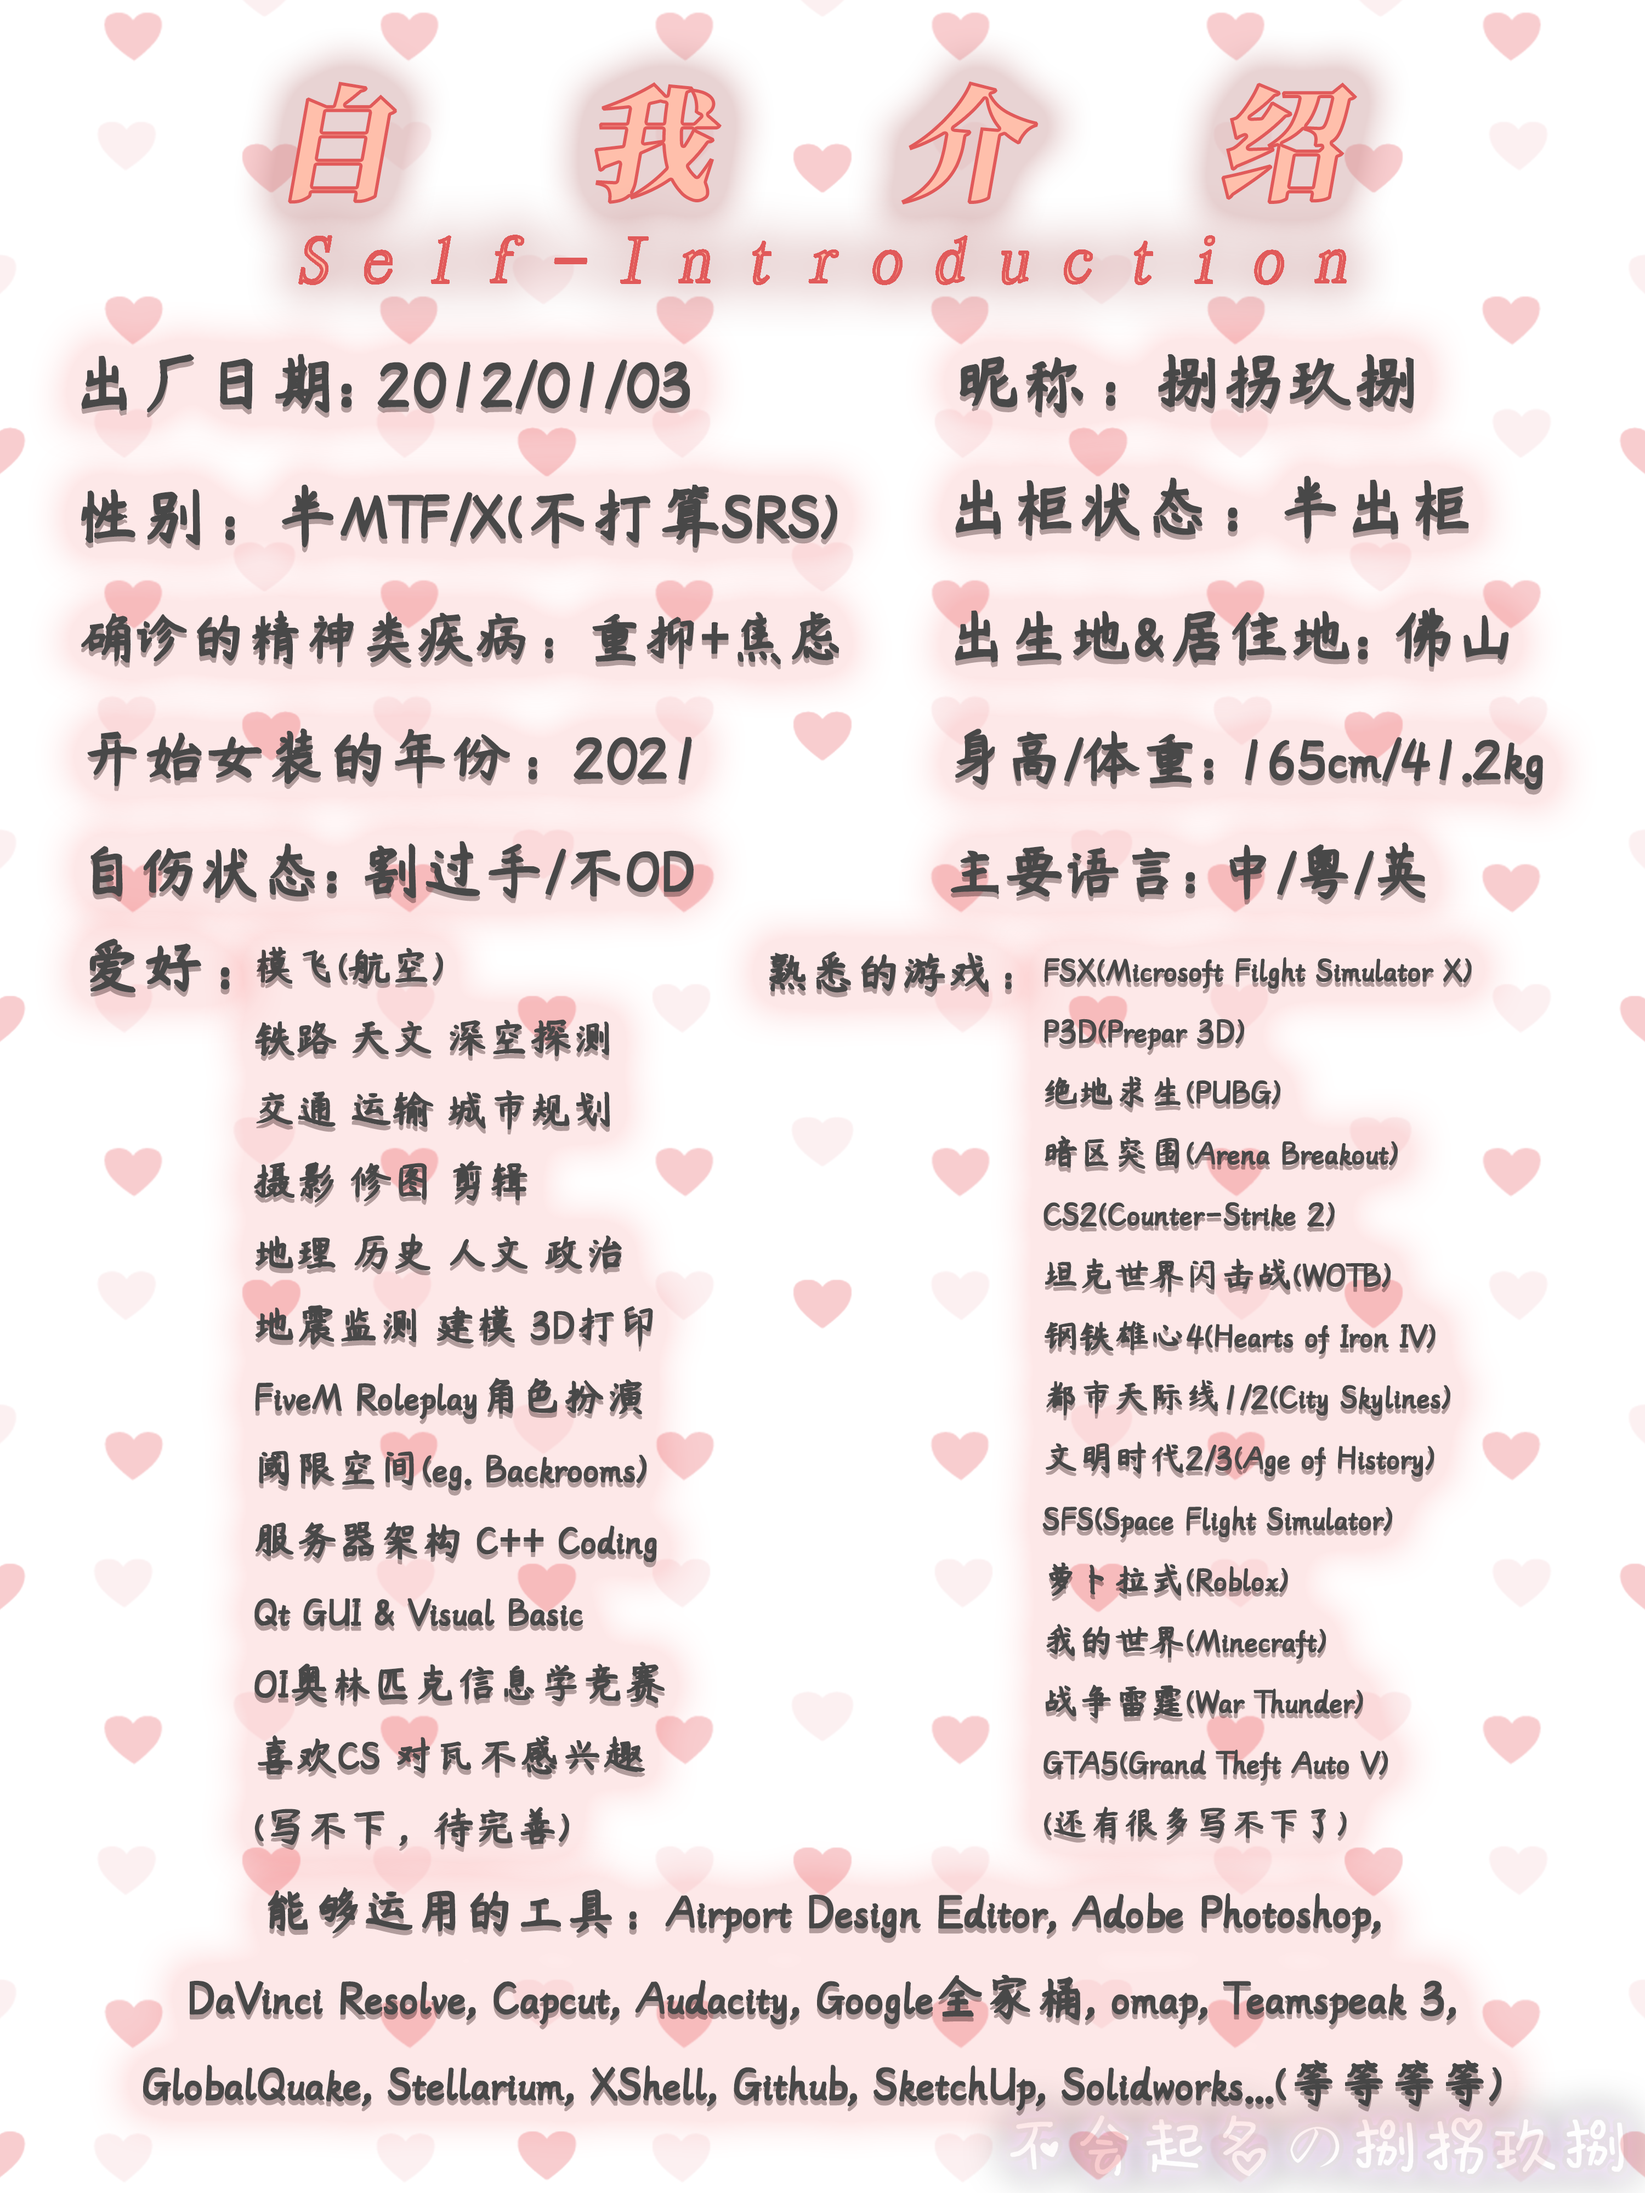
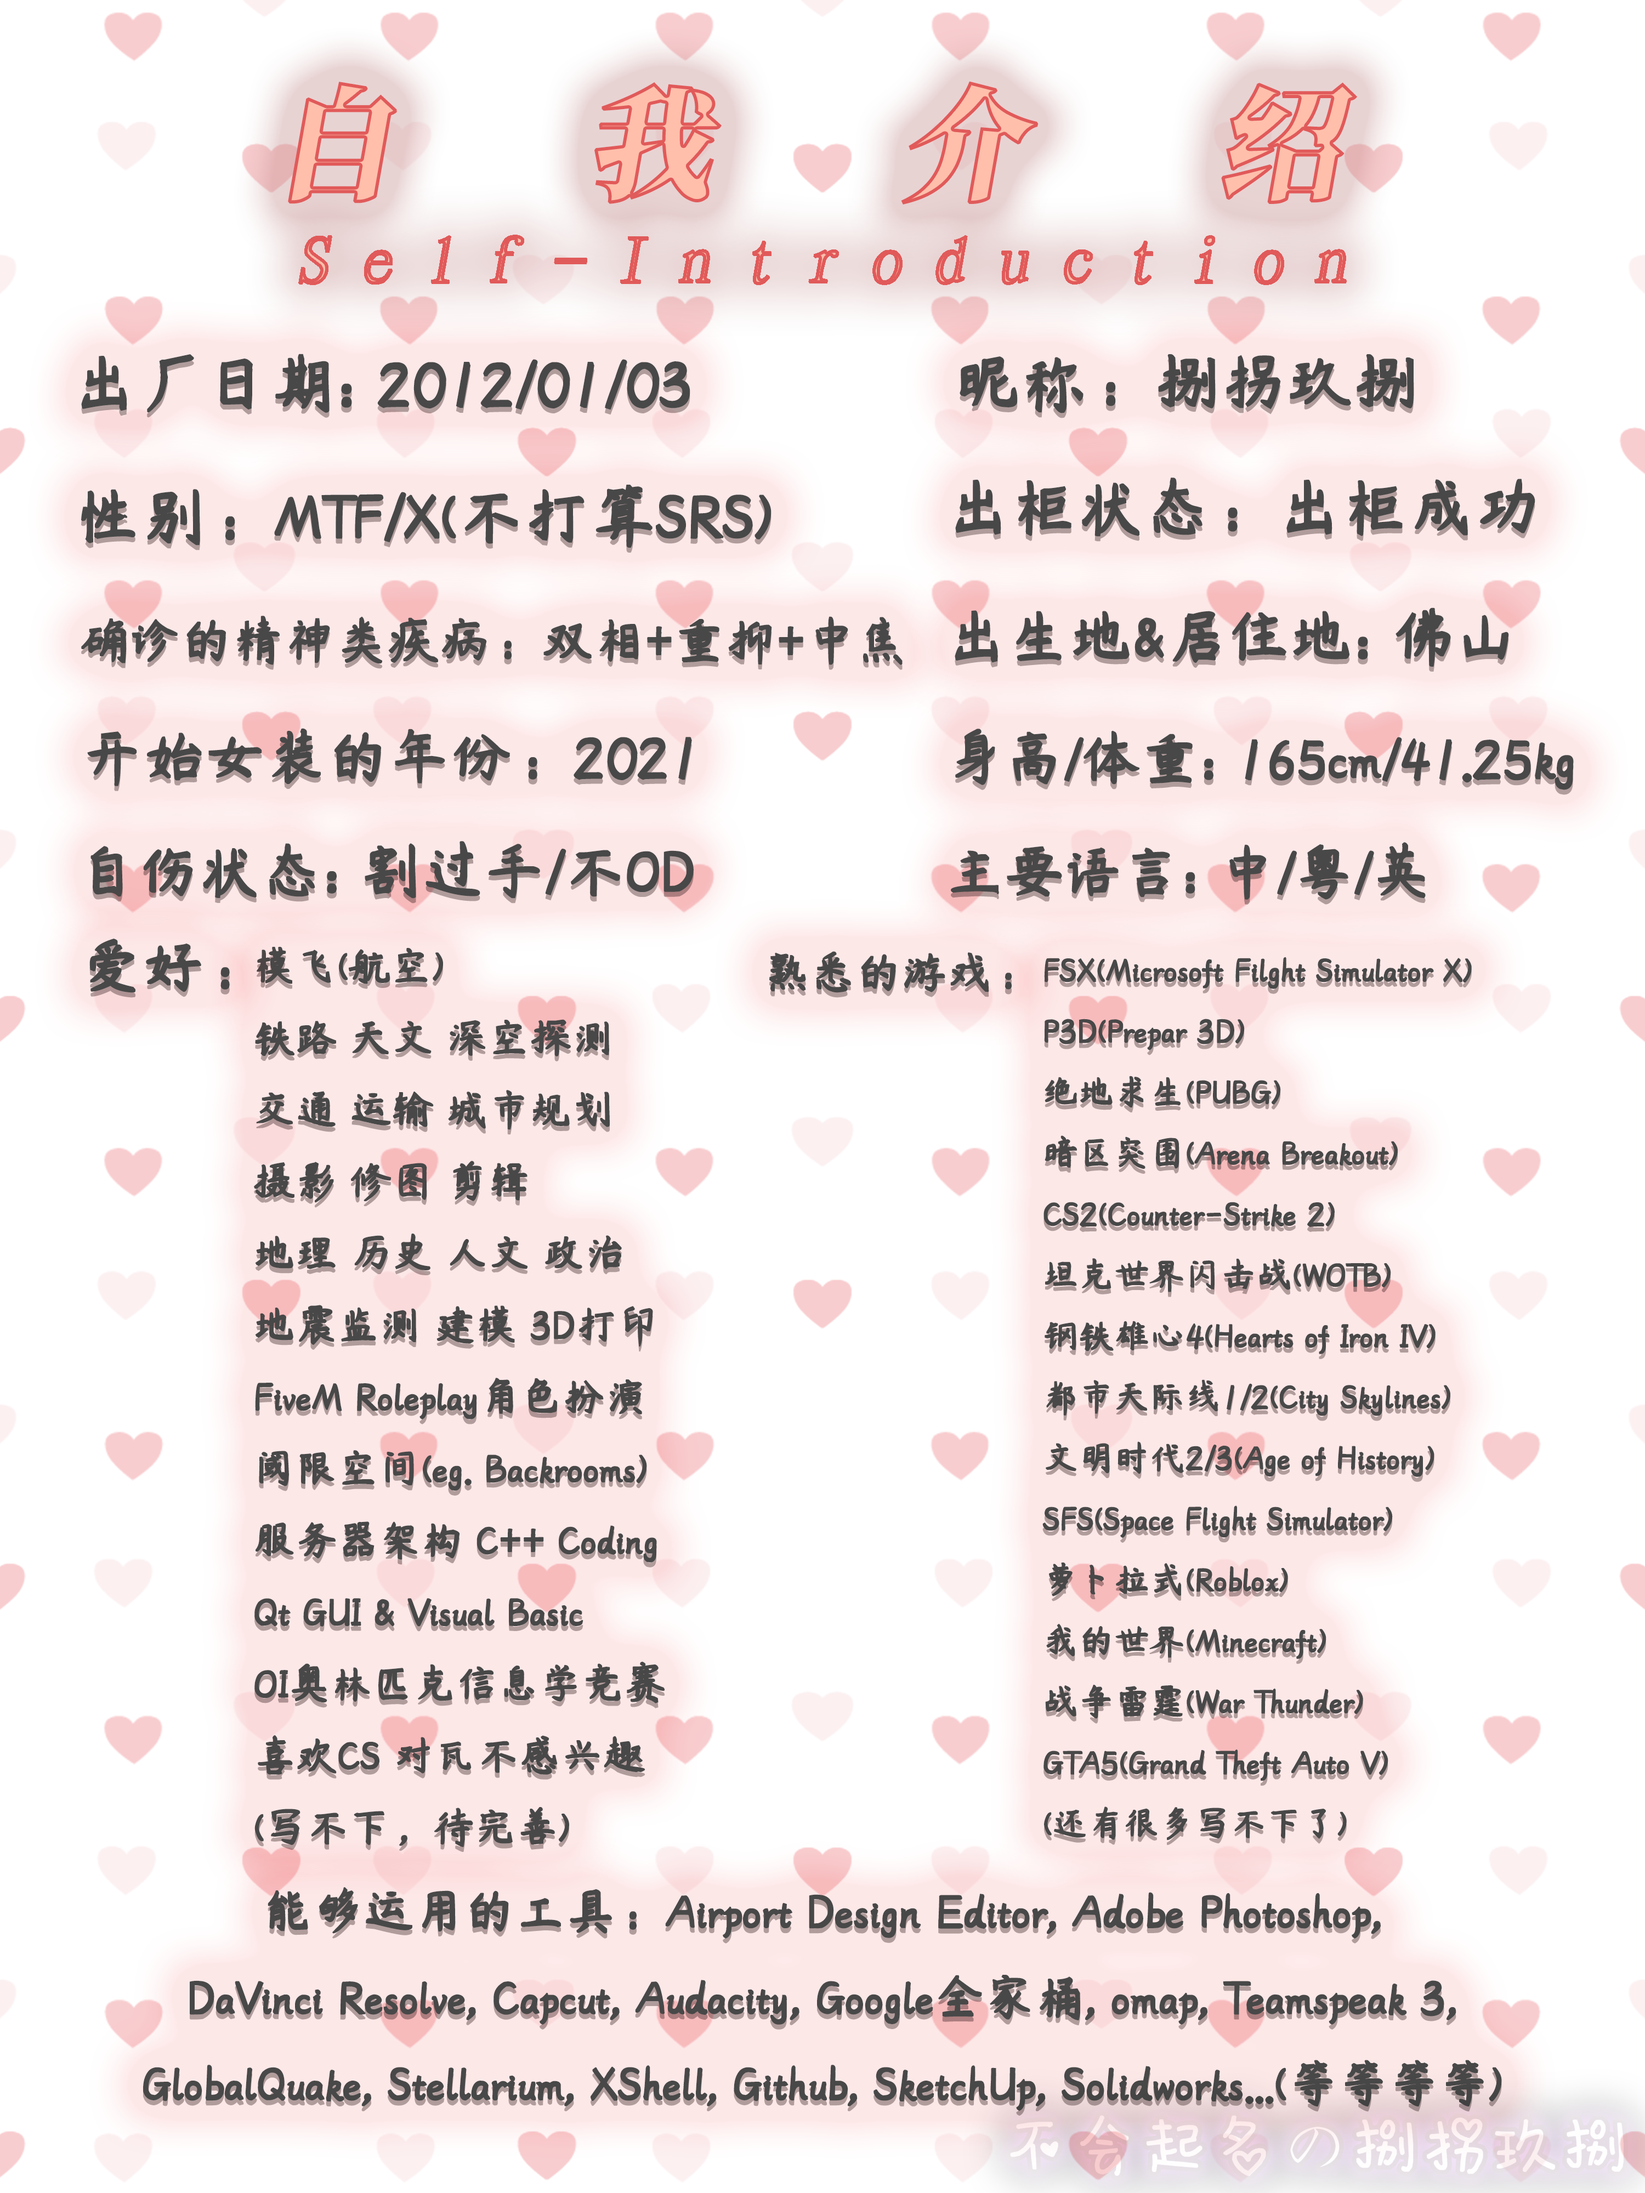
2026.05.06.23 Commit
1.更新了一篇文章"出柜记录"

diff --git a/src/content/spec/about.md b/src/content/spec/about.md
@@ -18,17 +18,19 @@ fontFamily: 'normal'
 **自我介绍**
 
 ***性别：***
-半MTF🍥药娘<br>
+MTF/X🍥<br>
 ***HRT：***
 含糖<br>
 ***出厂日期：***
 2012/01/03<br>
 ***身高/体重：***
-165cm/41kg<br>
+166cm/41.25kg<br>
 ***出生地&居住地：***
 佛山<br>
+***出柜状态：***
+出柜成功<br>
 ***心理状况：***
-偏内向 玻璃心 重抑焦虑不OD<br>
+偏内向 玻璃心 双相+重抑+中焦 不OD<br>
 ***尽量别踩的雷：***
 “伪娘”、“艹”、“Dick”字眼<br>
 ***爱好：***
